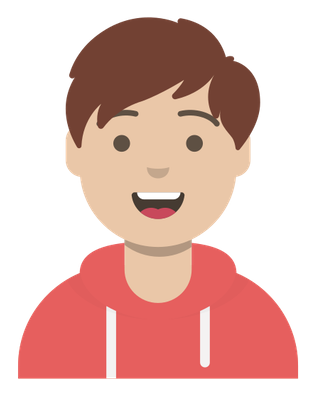
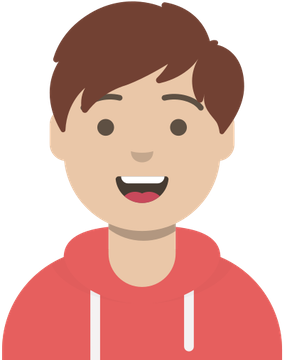
Coffee chat (#5)
* refactor colors to custom props

* add chat button

* fix avatar img alignment

* calendly modal working

diff --git a/css/style.css b/css/style.css
@@ -7,6 +7,13 @@
 }
 
 /* Base Styles */
+:root {
+  --dark-blue: #1c1d25;
+  --light-blue: #a9bcd0;
+  --grey-blue: #90a6bb;
+  --dark-red: #d93a3a;
+  --white: #ffffff;
+}
 html {
   font-size: 62.5%;
 }
@@ -15,7 +22,7 @@ body {
   line-height: 1.4;
 }
 a {
-  color: #fff;
+  color: var(--white);
   text-decoration: none;
 }
 
@@ -23,26 +30,26 @@ a {
 /* Header */
 header {
   height: 75px;
-  background: rgb(28, 29, 37);
-  color: #fff;
+  background: var(--dark-blue);
+  color: var(--white);
 }
 header div {
   height: 100%;
   display: flex;
   justify-content: flex-end;
   align-items: center;
+  position: relative;
 }
 header a {
-  height: 35px;
-  width: 115px;
   border-radius: 5px;
+  padding: 0.5rem 1rem;
   display: flex;
   justify-content: center;
   align-items: center;
   gap: 5px;
   margin-right: 15px;
   font-size: 2.2rem;
-  background: rgb(217, 58, 58);
+  background: var(--dark-red);
 }
 header a:hover {
   transform: scale(105%);
@@ -57,8 +64,8 @@ header a:hover {
 /* Main */
 main {
   height: 70vh;
-  background: rgb(28, 29, 37);
-  color: #fff;
+  background: var(--dark-blue);
+  color: var(--white);
   display: flex;
   flex-direction: column;
   justify-content: center;
@@ -80,8 +87,8 @@ main section:last-of-type {
 }
 main + section {
   height: 30vh;
-  background: rgb(28, 29, 37);
-  color: #fff;
+  background: var(--dark-blue);
+  color: var(--white);
   font-size: 1.8rem;
 }
 .scroll {
@@ -94,7 +101,7 @@ main + section {
 }
 .scrollLine {
   height: 100%;
-  border-right: 1px solid #fff;
+  border-right: 1px solid var(--white);
 }
 @media all and (min-width: 1024px) {
   main {
@@ -142,7 +149,7 @@ main + section {
   display: flex;
   flex-direction: column;
   align-items: center;
-  background: rgb(169, 188, 208);
+  background: var(--light-blue);
 }
 .projects > ul {
   width: 90%;
@@ -155,7 +162,7 @@ main + section {
   height: 300px;
   box-shadow: 0 0 20px rgba(0, 0, 0, 0.3);
   border-radius: 10px;
-  background: #fff;
+  background: var(--white);
 }
 .projects > ul > li:hover {
   transform: scale(101%);
@@ -239,7 +246,7 @@ main + section {
 
 /* Get in Touch */
 .contact {
-  background: rgb(28, 29, 37);
+  background: var(--dark-blue);
   padding: 50px 0;
   display: flex;
   flex-direction: column;
@@ -285,13 +292,13 @@ main + section {
 }
 /* Attribution */
 .attribution {
-  background: rgb(28, 29, 37);
+  background: var(--dark-blue);
 }
 .attribution > div {
   width: 90%;
   margin: 0 auto;
   padding: 25px 0;
-  border-top: 1px solid #fff;
+  border-top: 1px solid var(--white);
   display: flex;
   flex-direction: column;
   justify-content: space-around;
@@ -309,16 +316,16 @@ h2 {
   font-size: 3.6rem;
   font-weight: 700;
   letter-spacing: 0.1rem;
-  color: rgb(28, 29, 37);
+  color: var(--dark-blue);
   padding-bottom: 20px;
   text-align: center;
 }
 .contact h2,
 .contact p {
-  color: #fff;
+  color: var(--white);
 }
 .attribution h2 {
-  color: hsl(209, 24%, 65%);
+  color: var(--grey-blue);
   font-size: 1.8rem;
   text-align: left;
   padding-bottom: 0;
@@ -326,7 +333,7 @@ h2 {
 h3 {
   font-size: 2.2rem;
   font-weight: 700;
-  color: rgb(28, 29, 37);
+  color: var(--dark-blue);
   margin-left: 15px;
 }
 p {
@@ -339,38 +346,41 @@ p {
   letter-spacing: 0.2rem;
 }
 .skills span {
-  color: rgb(28, 29, 37);
+  color: var(--dark-blue);
   font-size: 1.8rem;
 }
 .contact ul {
-  color: #fff;
+  color: var(--white);
   font-size: 1.8rem;
 }
 .attribution a {
-  color: hsl(209, 24%, 65%);
+  color: var(--grey-blue);
 }
 
 /* IMAGES & ICONS */
 /* Header */
-header svg {
+header img {
   height: 2.2rem;
-  fill: #fff;
 }
 
 /* Main */
 .avatarBG {
   width: 200px;
   height: 200px;
-  background: rgb(169, 188, 208);
+  background: var(--light-blue);
   border-radius: 50%;
   display: flex;
   justify-content: center;
   align-items: center;
+  position: relative;
 }
 .avatarBG img {
-  width: 115%;
-  padding-bottom: 10%;
-  padding-right: 15%;
+  height: 90%;
+  position: absolute;
+  left: 5%;
+  bottom: 0;
+  /* padding-bottom: 10%;
+  padding-right: 15%; */
 }
 @media all and (min-width: 500px) {
   .avatarBG {
@@ -404,7 +414,7 @@ header svg {
 /* Skills */
 .skills img {
   height: 64px;
-  fill: rgb(28, 29, 37);
+  fill: var(--dark-blue);
 }
 .adobeLogo {
   transform: scale(135%);
@@ -438,4 +448,56 @@ header svg {
   height: 48px;
 }
 
+/* Coffee Chat Pop Up */
+.overlay {
+  z-index: 10;
+  position: fixed;
+  top: 0;
+  right: 0;
+  bottom: 0;
+  left: 0;
+  display: flex;
+  justify-content: center;
+  align-items: center;
+  -moz-backdrop-filter: blur(6px);
+  backdrop-filter: blur(6px);
+  background: rgba(0, 0, 0, 0.5);
+  visibility: hidden;
+  opacity: 0;
+  transition: opacity 300ms;
+}
+.overlay:target {
+  visibility: visible;
+  opacity: 1;
+}
+.coffee-popup {
+  margin: 0 1rem;
+  max-width: 40rem;
+  background: var(--white);
+  color: var(--dark-blue);
+  border-radius: 0.5rem;
+  padding: 0 1rem 3rem 3rem;
+  display: flex;
+  flex-direction: column;
+}
+
+.coffee-popup p {
+  padding-right: 2rem;
+  font-size: 1.8rem;
+}
+
+.coffee-popup a,
+.coffee-popup a:visited {
+  color: var(--dark-red);
+  font-weight: bold;
+  text-decoration: underline;
+}
+
+.coffee-popup .close,
+.coffee-popup .close:visited {
+  font-size: 4rem;
+  align-self: flex-end;
+  text-decoration: none;
+}
 /* TODO refactor */
+/* TODO circle BG color change on scroll */

diff --git a/index.html b/index.html
@@ -23,16 +23,28 @@
         <a
           href="mailto:curtis.barnard.jr@gmail.com?subject=New web development project&body=WEBSAVE100 Get $100 off your project"
         >
-          <svg xmlns="http://www.w3.org/2000/svg" viewBox="0 0 512 512">
-            <!--! Font Awesome Pro 6.0.0 by @fontawesome - https://fontawesome.com License - https://fontawesome.com/license (Commercial License) Copyright 2022 Fonticons, Inc. -->
-            <path
-              d="M256 352c-16.53 0-33.06-5.422-47.16-16.41L0 173.2V400C0 426.5 21.49 448 48 448h416c26.51 0 48-21.49 48-48V173.2l-208.8 162.5C289.1 346.6 272.5 352 256 352zM16.29 145.3l212.2 165.1c16.19 12.6 38.87 12.6 55.06 0l212.2-165.1C505.1 137.3 512 125 512 112C512 85.49 490.5 64 464 64h-416C21.49 64 0 85.49 0 112C0 125 6.01 137.3 16.29 145.3z"
-            />
-          </svg>
+          <img src="img/mail.svg" alt="" />
           <span>Hire Me</span>
+        </a>
+        <a href="#popup">
+          <img src="img/coffee.svg" alt="" />
+          <span>Chat</span>
         </a>
       </div>
     </header>
+    <div class="overlay" id="popup">
+      <div class="coffee-popup">
+        <a href="#" class="close">🞪</a>
+        <p>
+          I would love to have a virtual coffee chat (you can have a beverage of
+          your choice of course 😉) with you to hear your story. I'm a Software
+          Engineer in Portland, OR and I'm passionate about hiking,
+          conservation, urban design, open-source software and making the world
+          a more equitable place. To book some time please head over to my
+          <a href="https://calendly.com/curtis-b/coffee-chat">Calendly</a>.
+        </p>
+      </div>
+    </div>
     <main>
       <section>
         <div class="avatarBG">
